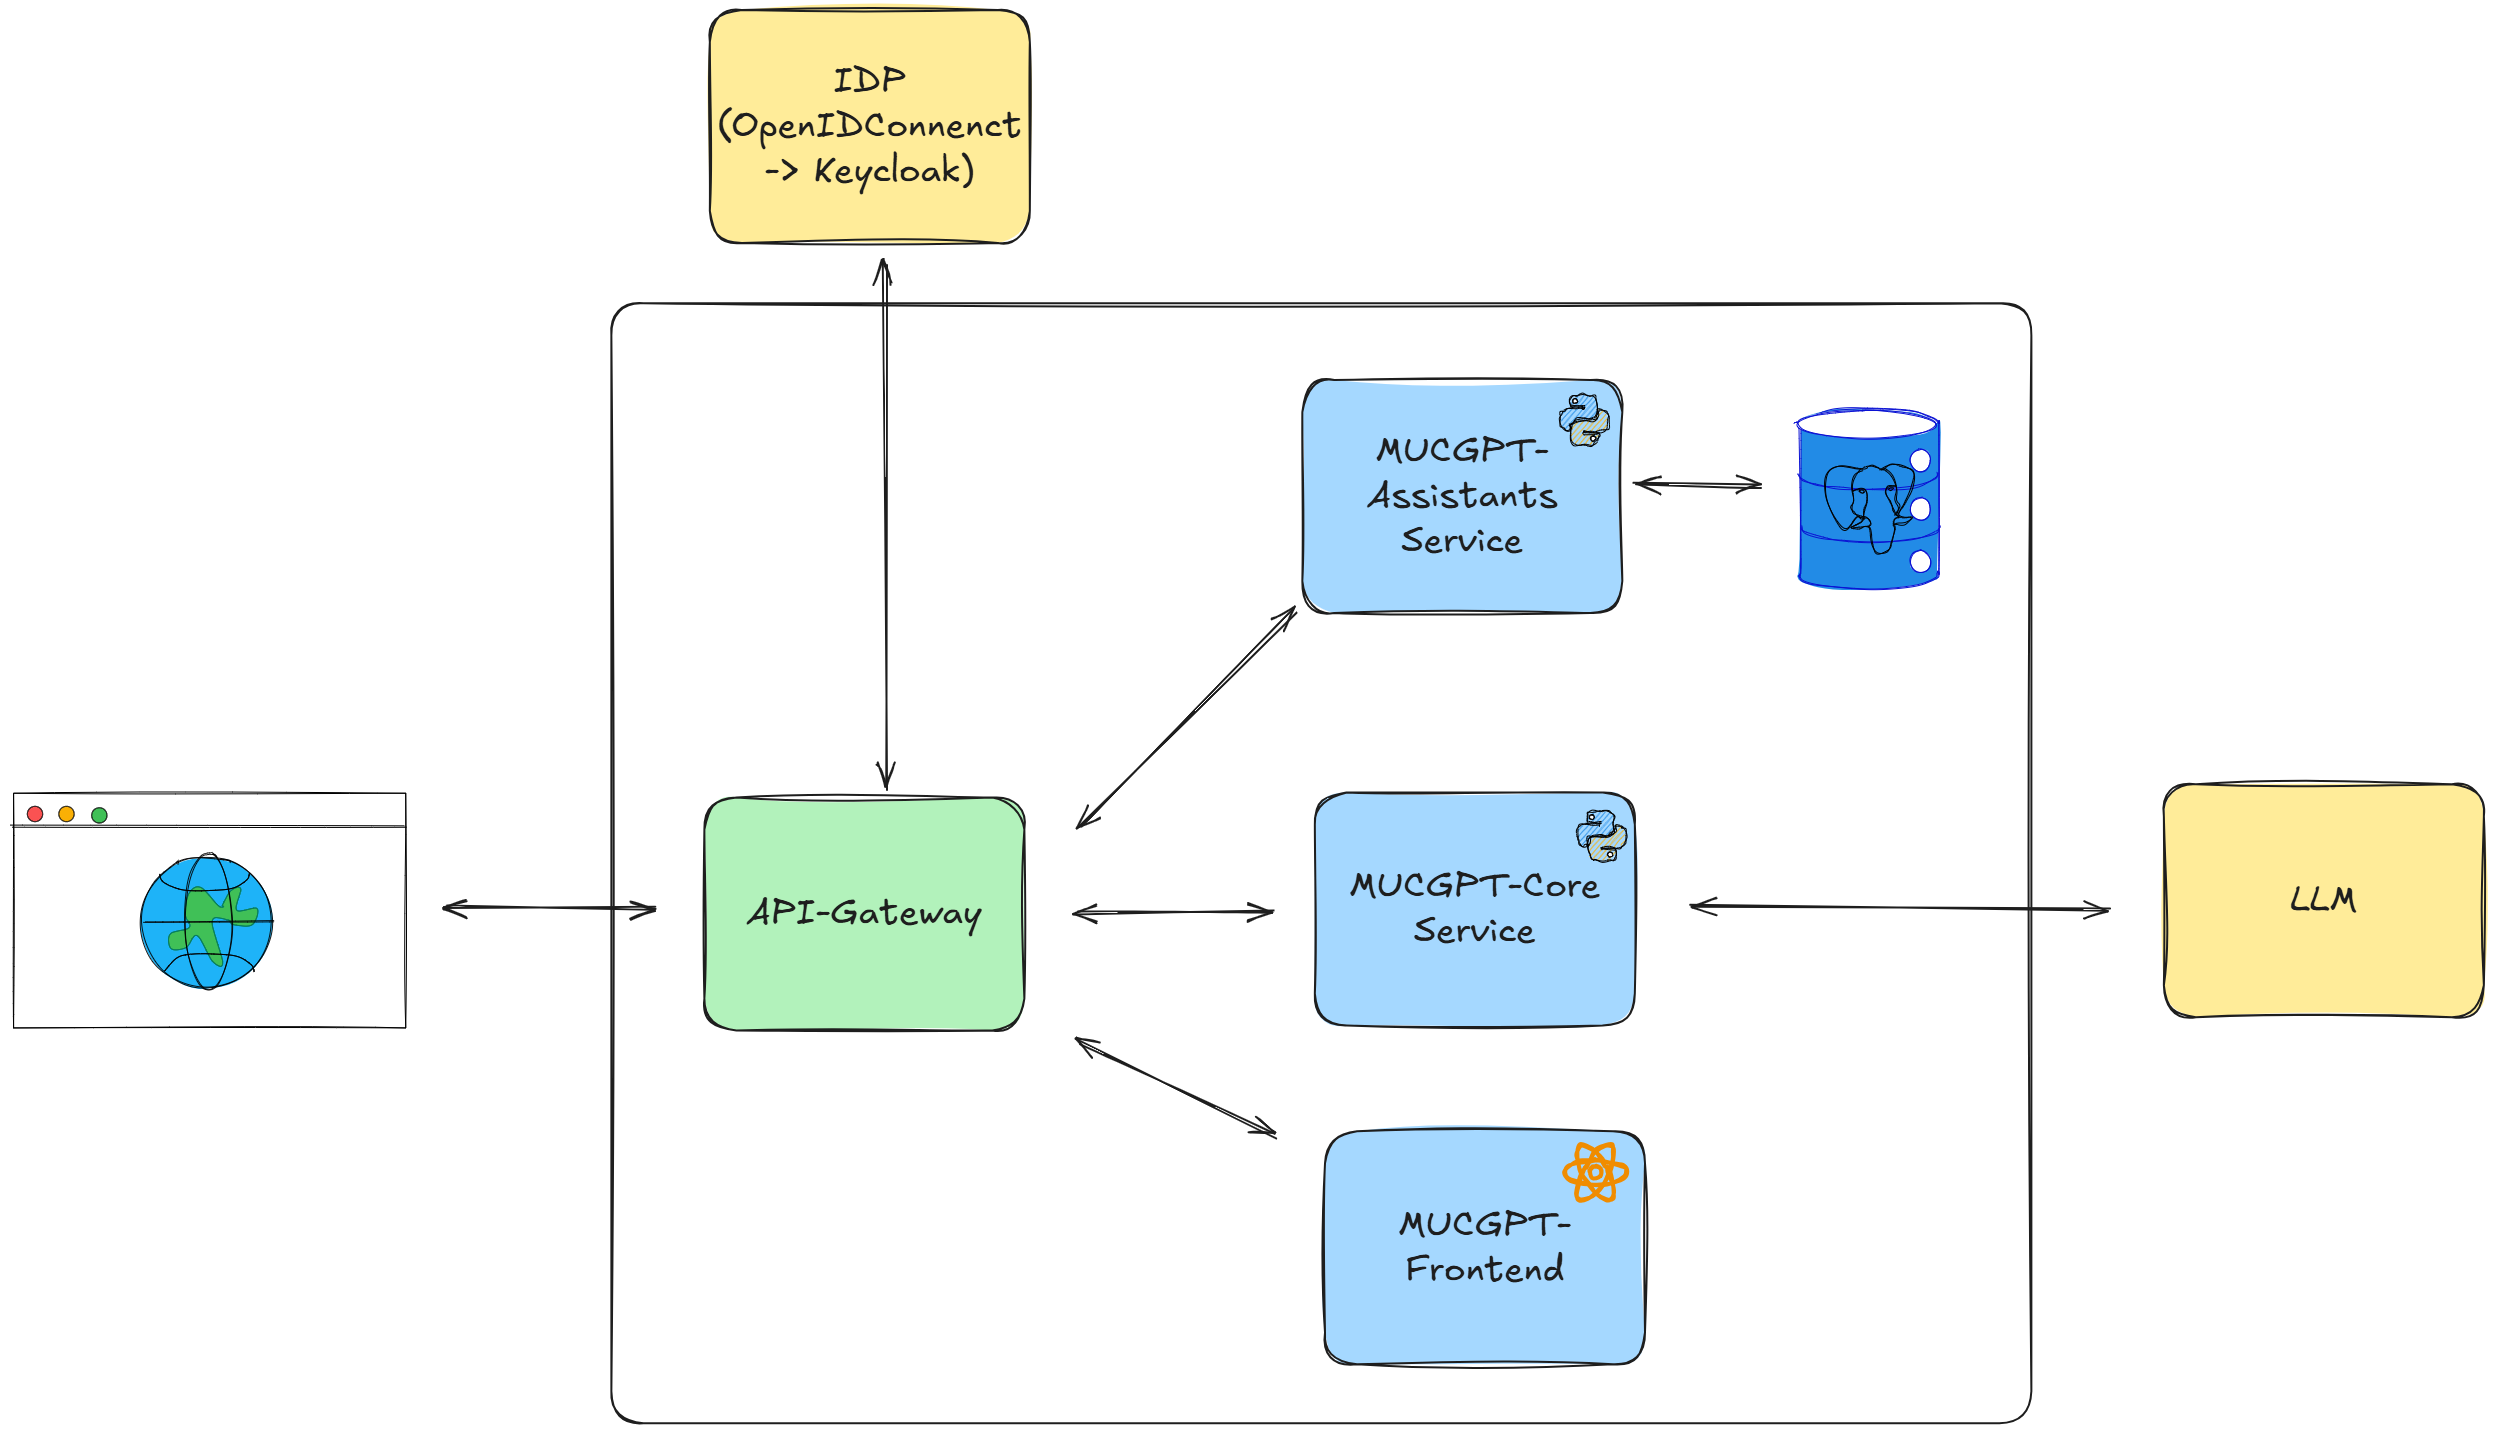
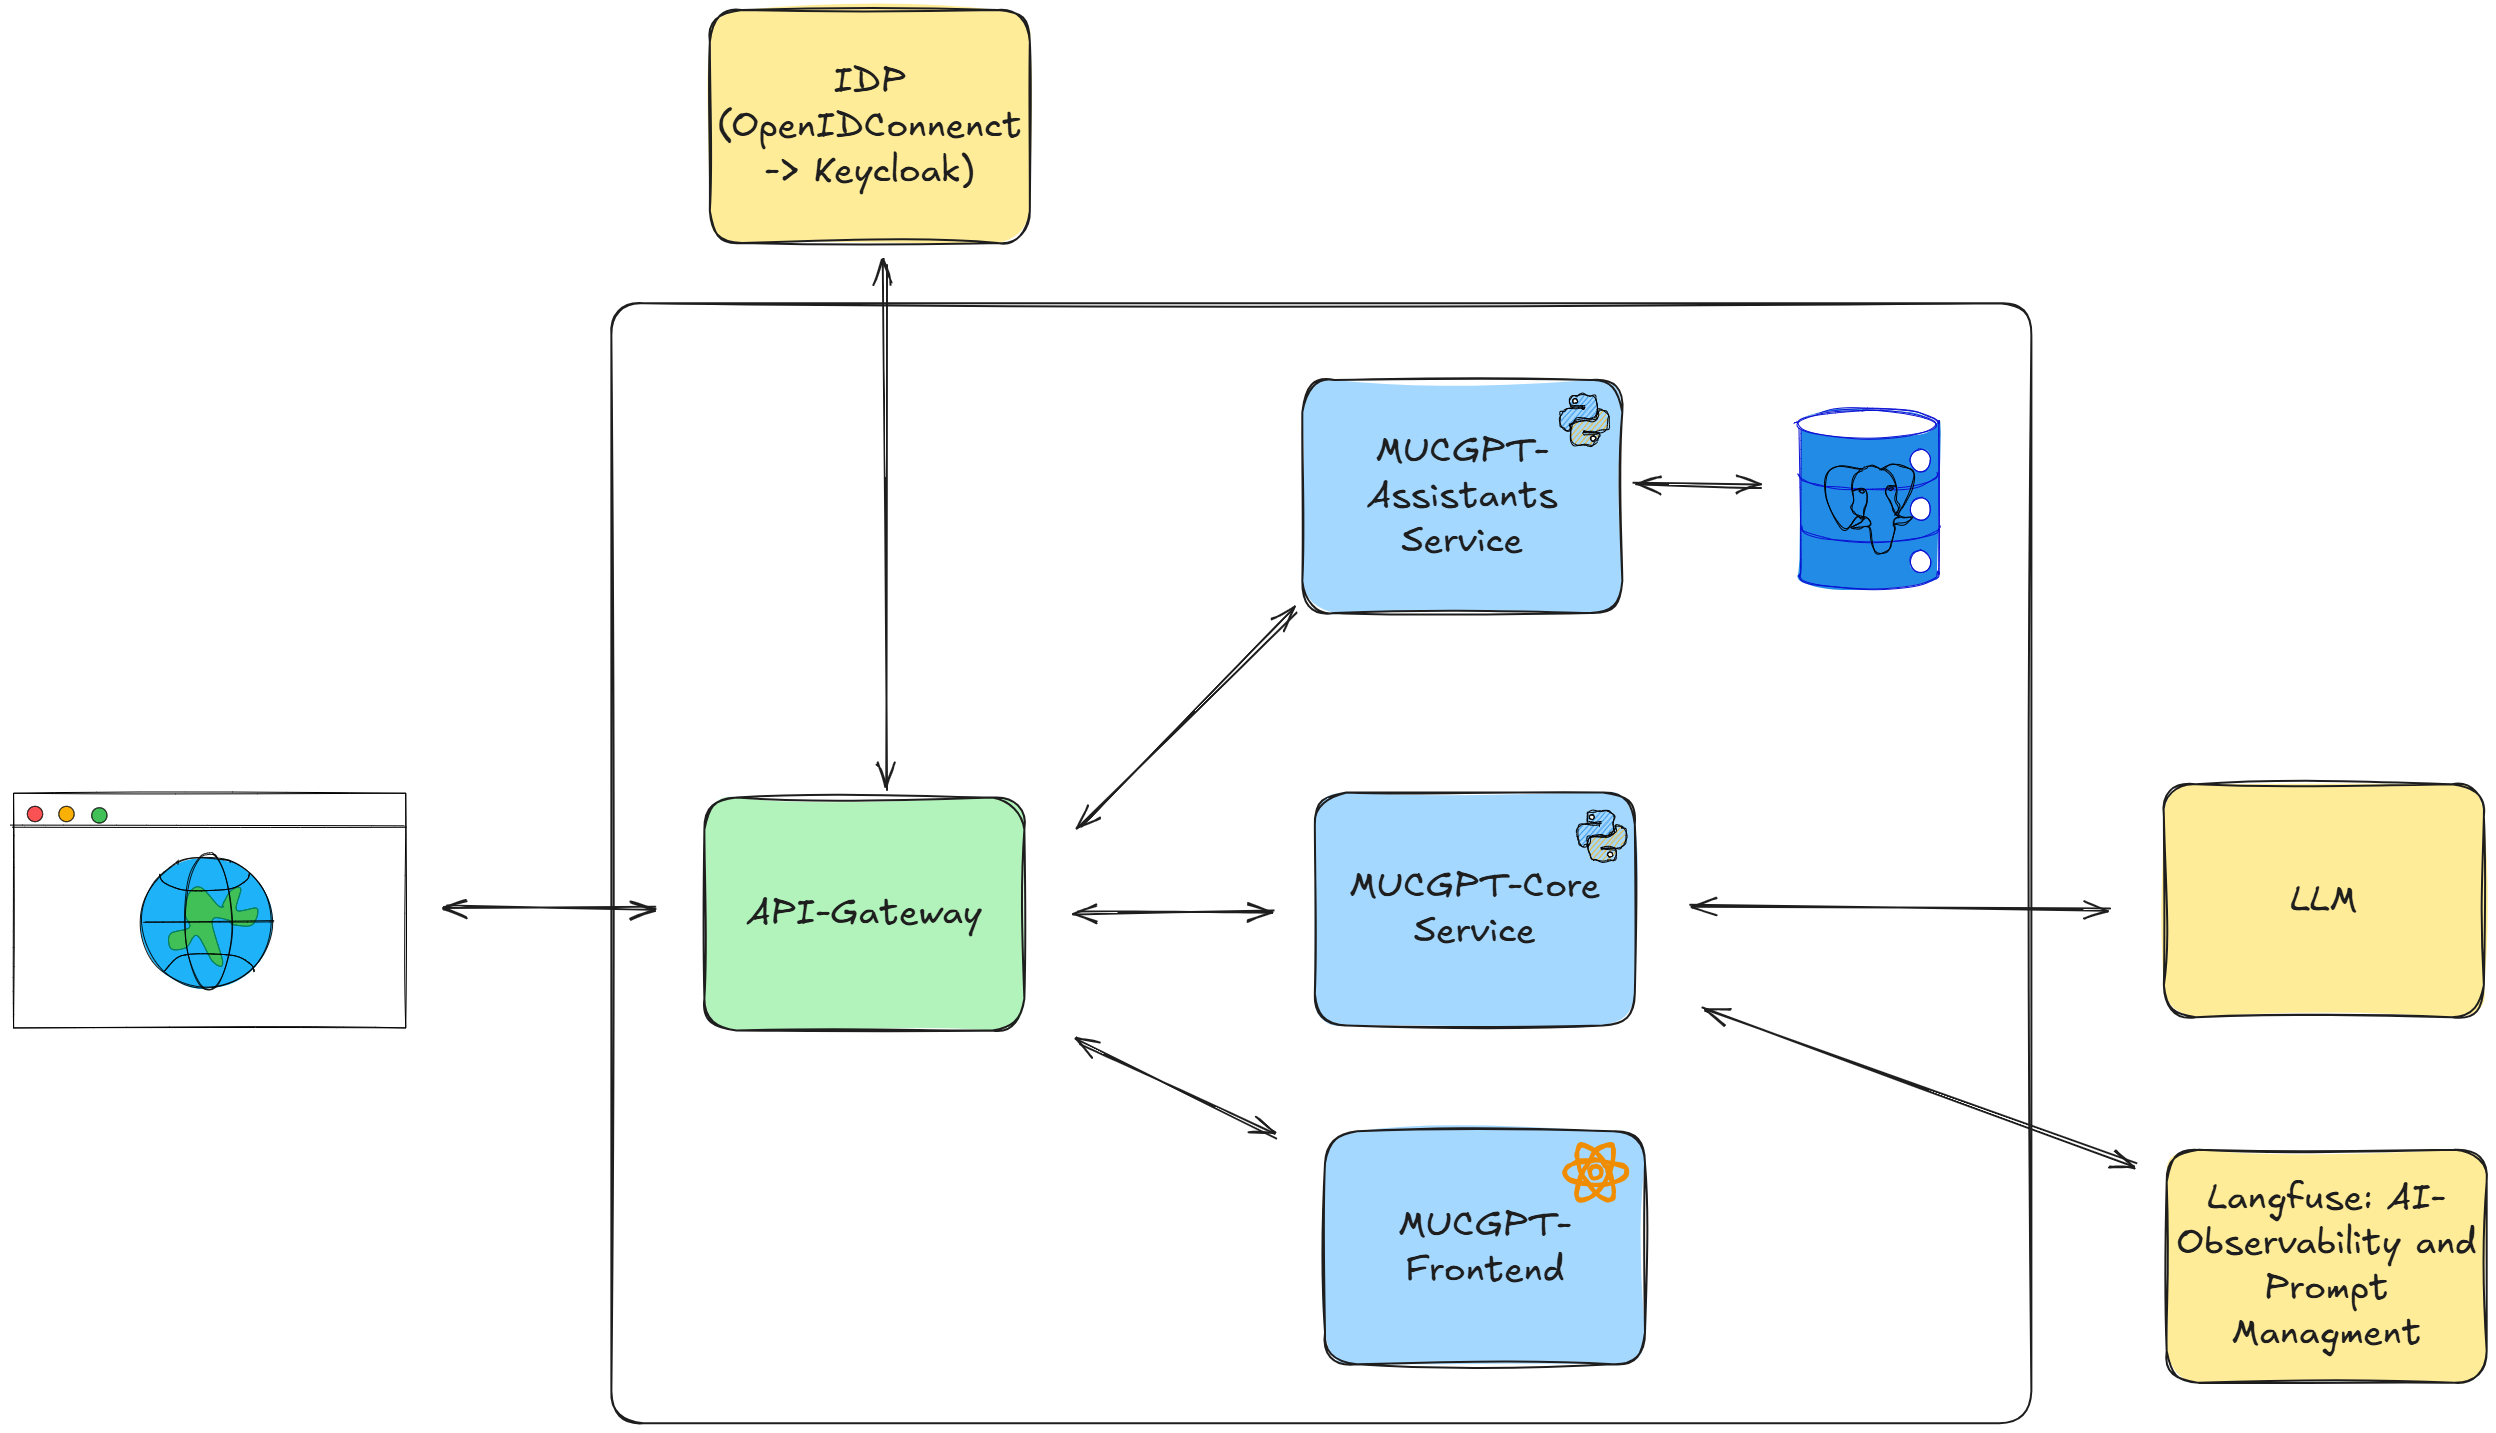
📃 added langfuse to docu

diff --git a/README.md b/README.md
@@ -173,16 +173,20 @@ timeline
   <source media="(prefers-color-scheme: dark)" srcset="docs/architecture-dark.png">
   <img alt="MUCGPT Architecture Diagram" src="docs/architecture.png">
 </picture>
+
 The architecture of MUCGPT is structured into three primary components: the frontend, the core service for handling tools and the communication with the llm, and the assistant service. Additionally, it features an API Gateway, a database, and integrates Single Sign-On (SSO) for authentication.
 
 The frontend is based on a template from [Microsoft Azure](https://github.com/Azure-Samples/azure-search-openai-demo) and is implemented using React, Typescript and Javascript.
 
-The framework used to implement the backend of MUCGPT is called [FastAPI](https://fastapi.tiangolo.com/). It is a modern, fast (high-performance), web framework for building APIs with Python based on standard Python type hints. The backend uses LangChain to connect to LLMs. In the [.env](config/.env.empty) file, you can provide the user with various LLM options to select from in the frontend.
+The framework used to implement the backends (the core- and the assistant service) of MUCGPT is called [FastAPI](https://fastapi.tiangolo.com/). It is a modern, fast (high-performance), web framework for building APIs with Python based on standard Python type hints. The `core service` uses LangGraph to connect to LLMs.
+TODO more about the services.
 
 The API Gateway is developed in Java based on the [Spring Cloud Gateway](https://spring.io/projects/spring-cloud-gateway), providing robust routing, security, and scalability for all services. [IT@M](https://github.com/it-at-m) distributes the gateway as a container image: `ghcr.io/it-at-m/refarch/refarch-gateway`. For detailed documentation, see [here](https://refarch.oss.muenchen.de/gateway.html).
 
 Authentication is managed using [Keycloak](https://www.keycloak.org/), a robust open-source identity and access management solution. Keycloak handles user authentication, authorization, and user management for the MUCGPT platform, enabling secure Single Sign-On (SSO) across all services.
 For more details on customizing authentication or extending user management, refer to the [Keycloak Migration Framework documentation](https://mayope.github.io/keycloakmigration/).
+
+[Langfuse](https://langfuse.com/) is an open-source LLM observability platform that supports agent tracing and prompt management. It is optional in MUCGPT.
 
 For more information about all the features of MUCGPT click [here](/docs/FEATURES.md).
 
